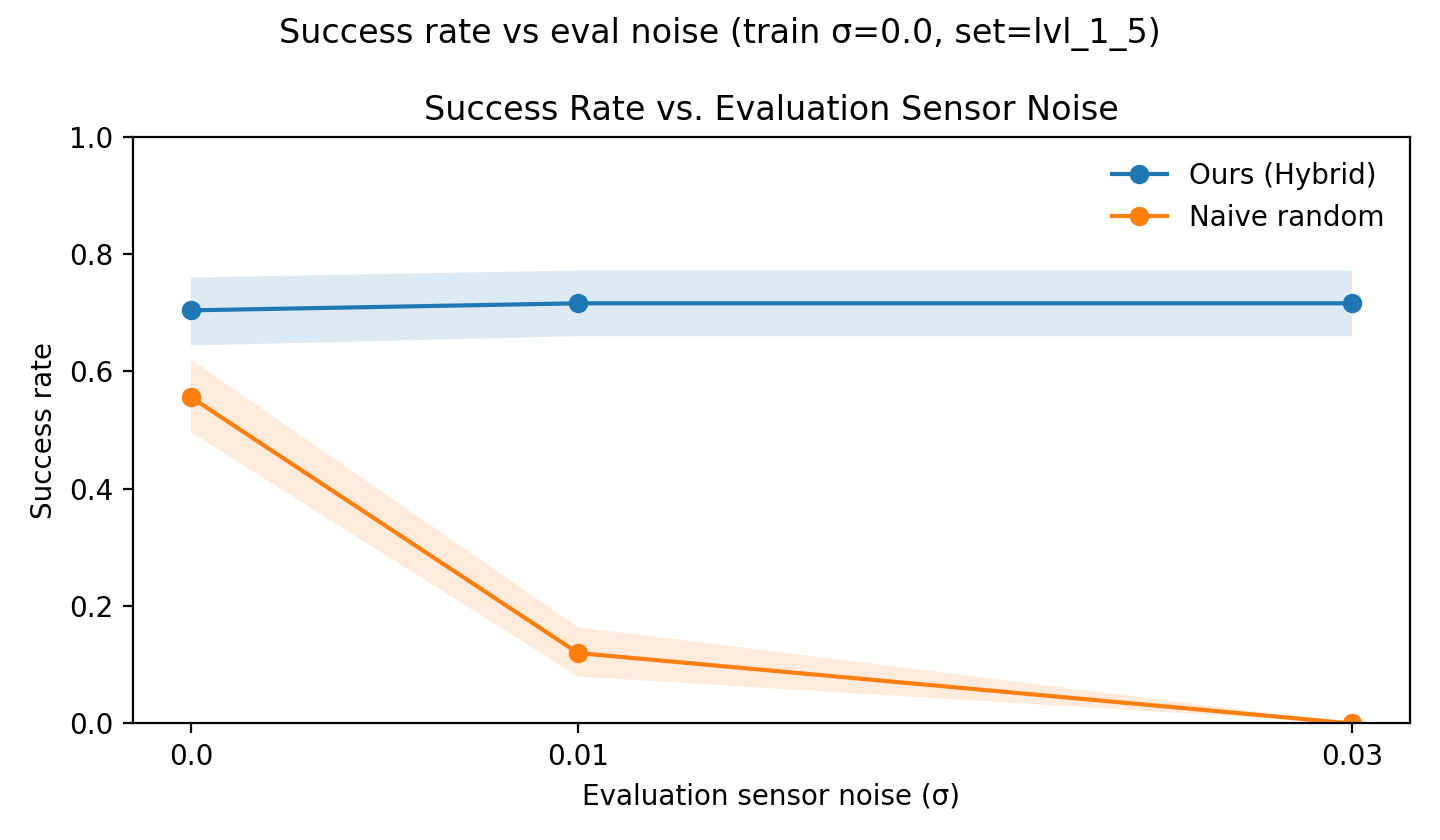
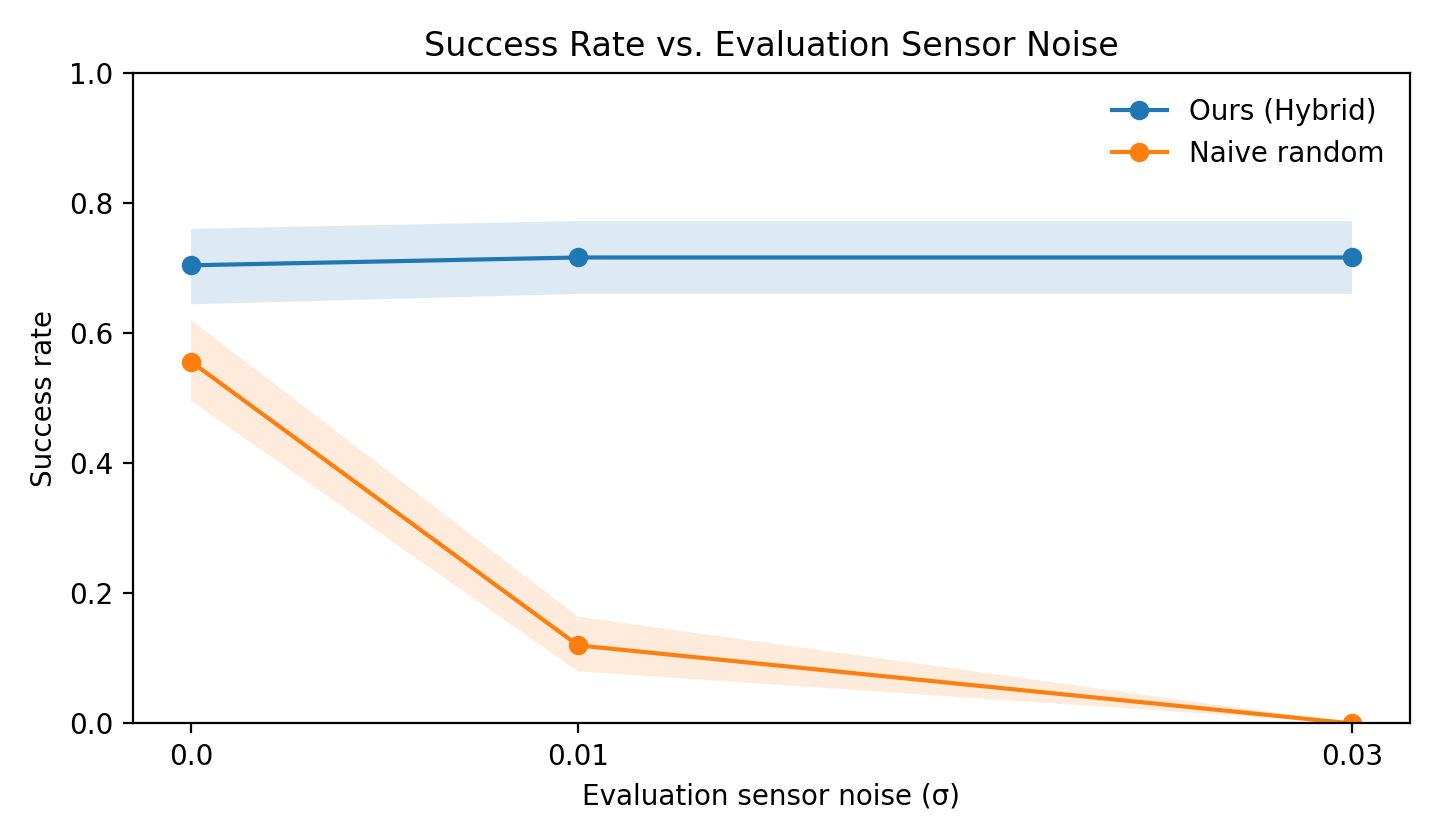
add png

diff --git a/navppo/eval_pipeline.py b/navppo/eval_pipeline.py
@@ -251,7 +251,6 @@ def plot_success_vs_eval_noise(df: pd.DataFrame, train_noise: float, eval_set: s
     plt.xlabel("Evaluation sensor noise (σ)")
     plt.ylabel("Success rate")
     plt.title("Success Rate vs. Evaluation Sensor Noise")
-    plt.suptitle(f"Success rate vs eval noise (train σ={train_noise}, set={eval_set})")
     plt.legend(frameon=False)
     plt.tight_layout()
 
